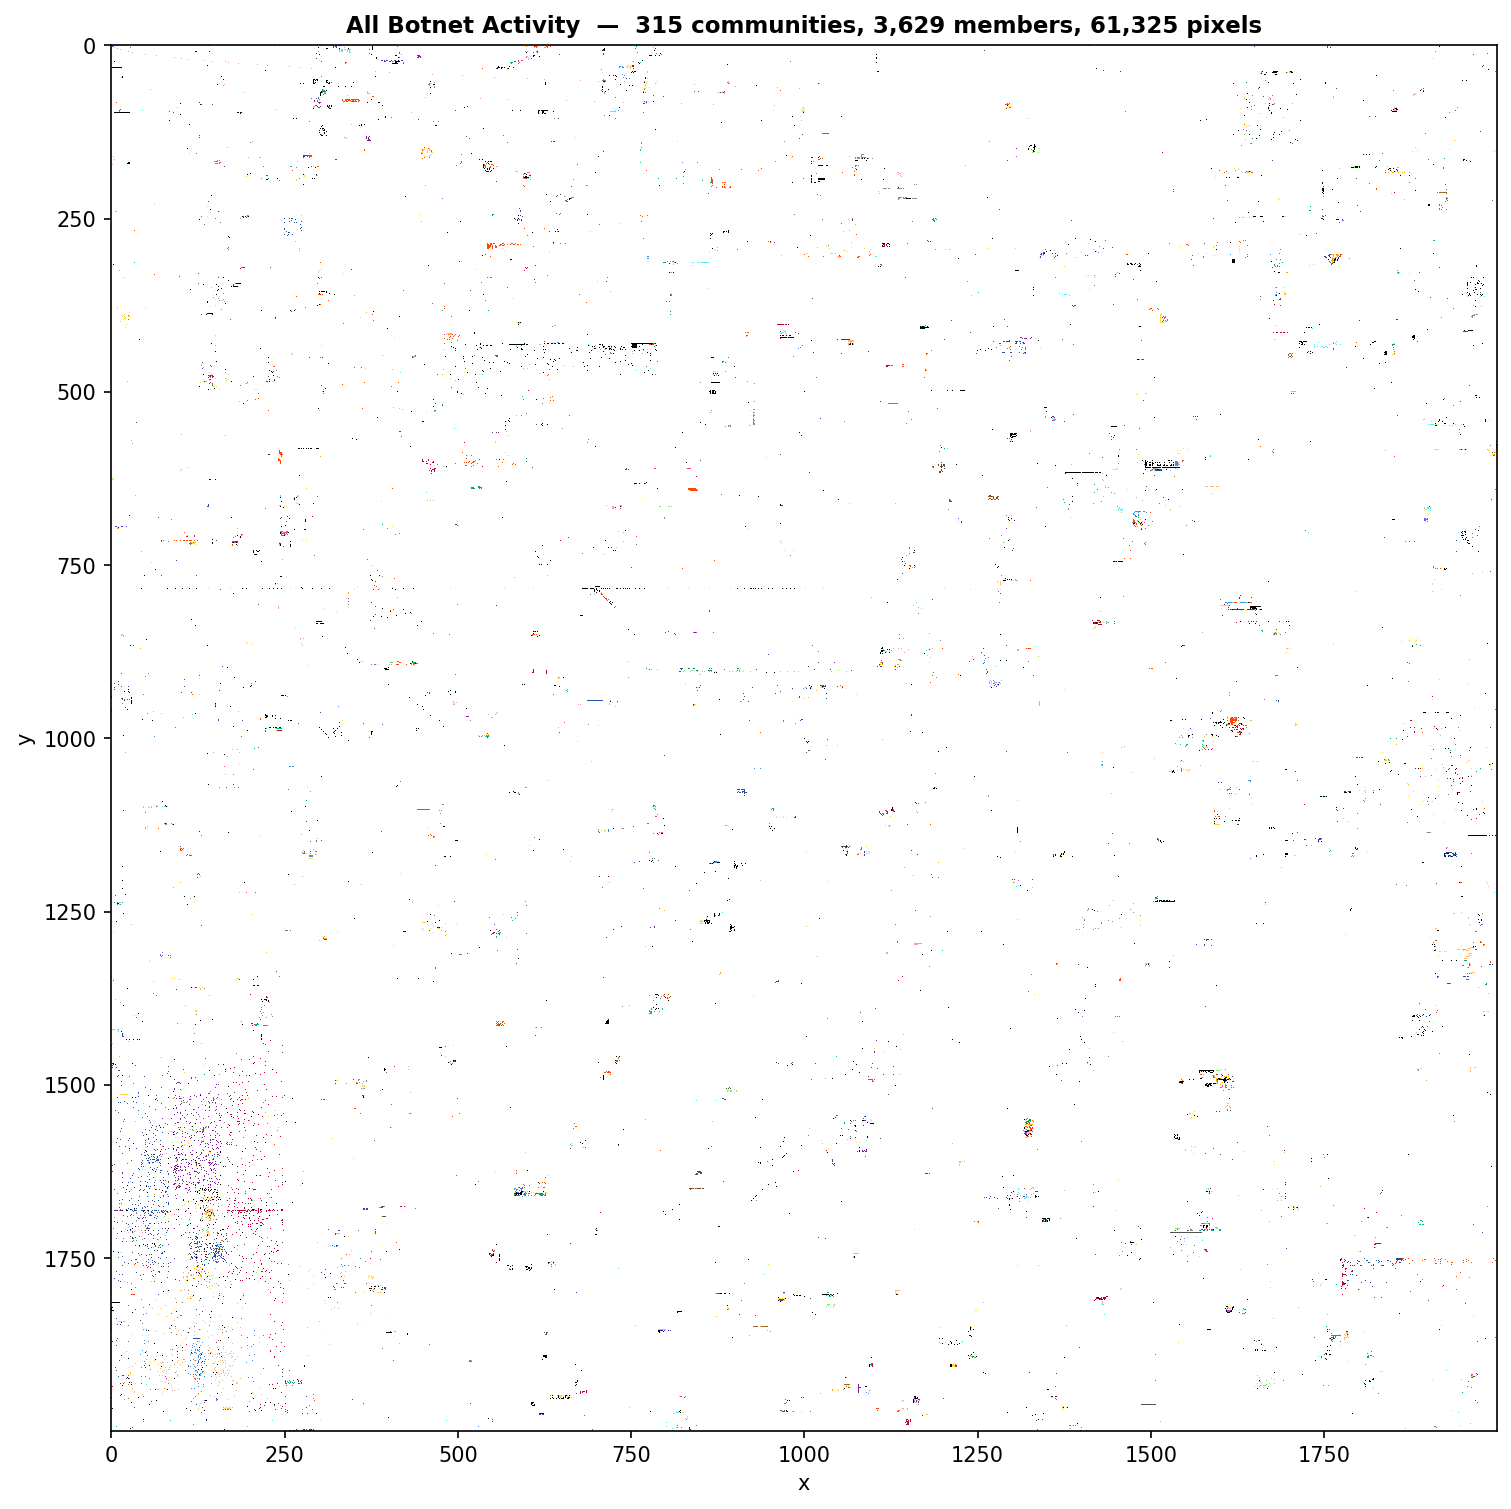
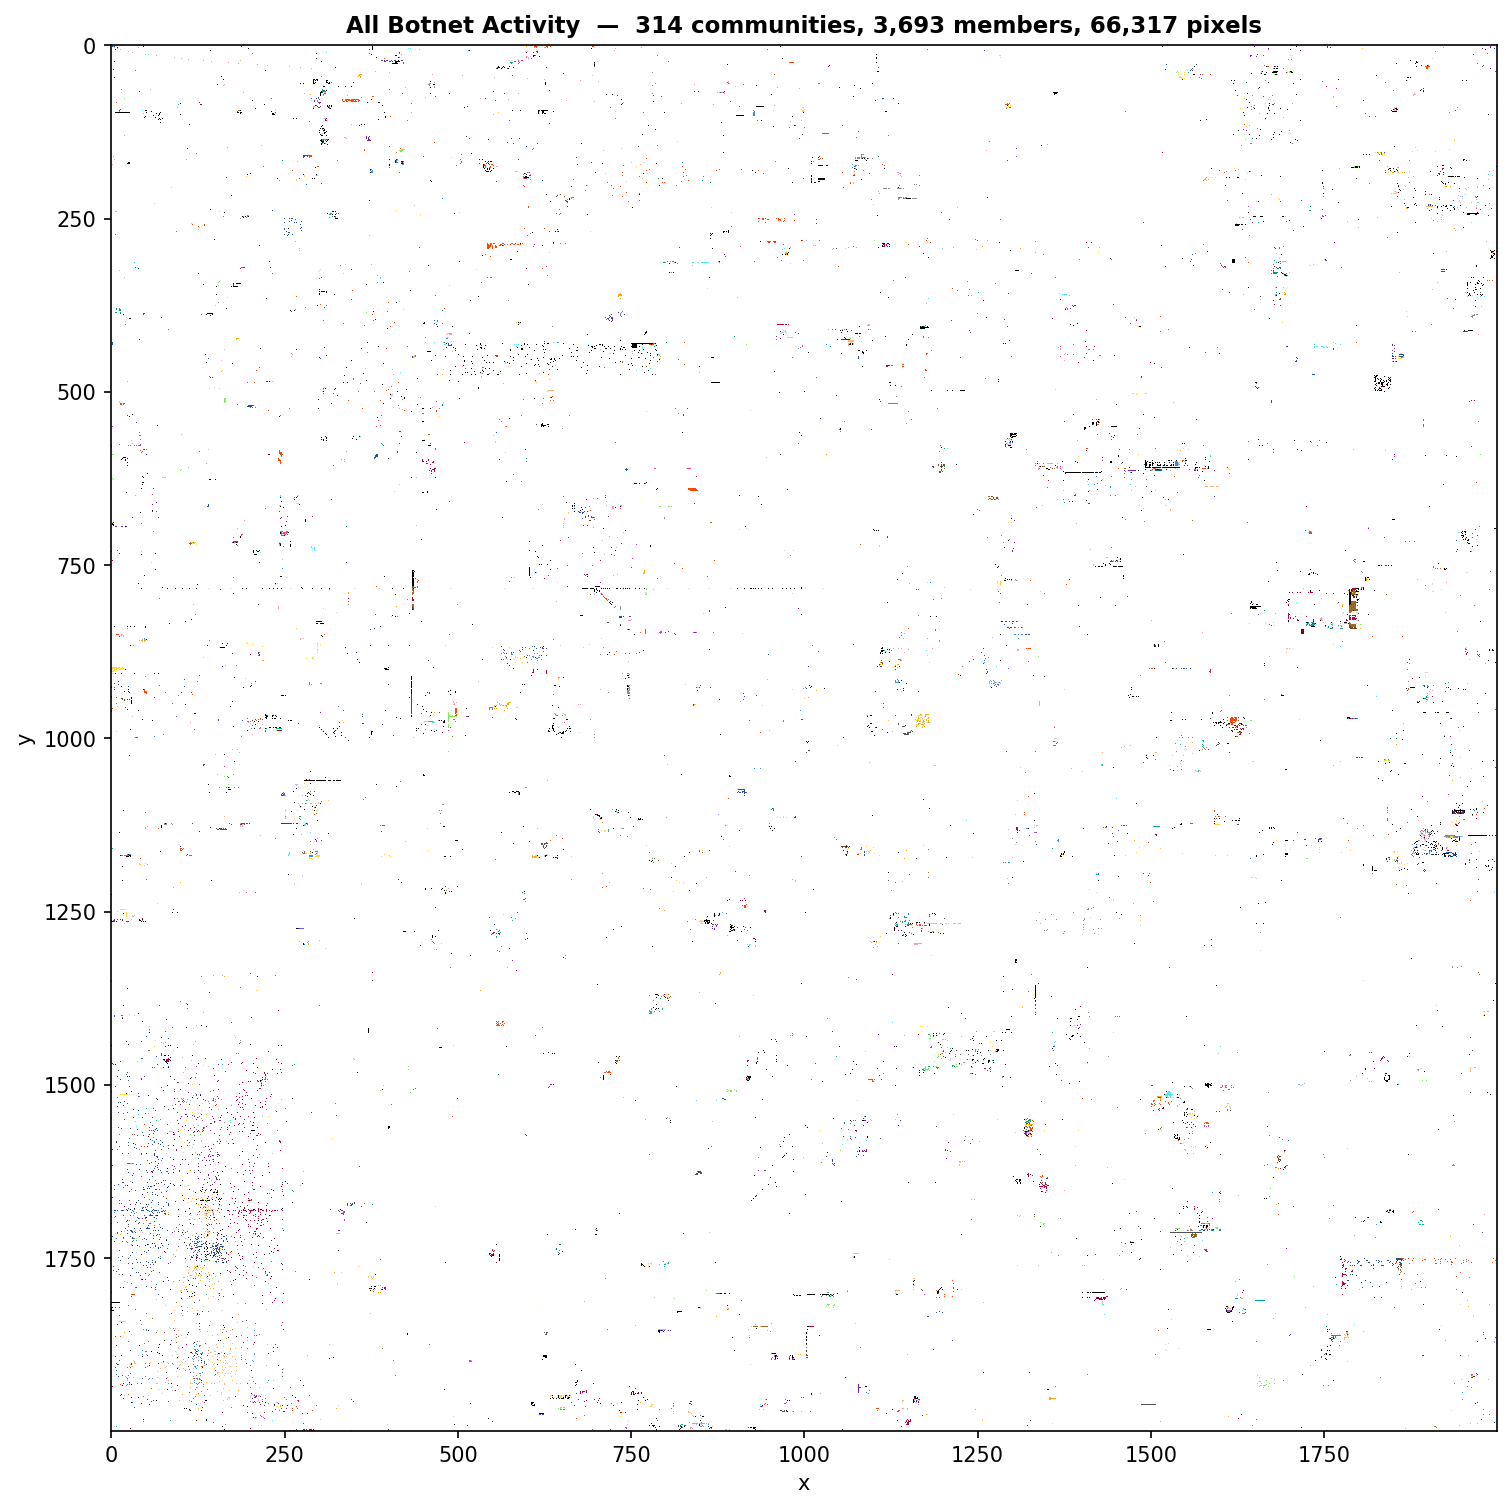
final report draft

Changed region(s): [[0.7465, 0.0, 0.7776, 0.0311], [0.591, 0.0, 0.6221, 0.0311], [0.1244, 0.7787, 0.1555, 0.8098]]

diff --git a/botnet_analysis.py b/botnet_analysis.py
@@ -37,7 +37,7 @@ HIGH_VOLUME_PERCENTILE = 0.97        # Top 3% by placement count
 # CONFIGURATION - PHASE 3: Graph Construction
 # ============================================================
 TILE_SIZE = 50                       # Pixels per tile side (50x50)
-WINDOW_SECONDS = 300                 # 10-minute temporal bins
+WINDOW_SECONDS = 300                 # 5-minute temporal bins
 MIN_CO_OCCURRENCE = 3                # Minimum shared bins for an edge
 
 # ============================================================
@@ -61,15 +61,15 @@ BOTNET_UNIFORMITY_STD_THRESHOLD = 10.0   # Low std of member std_intervals
 # CONFIGURATION - PHASE 6: Final Classification
 # ============================================================
 SCORE_WEIGHTS = {
-    "flag_cooldown": 2.0,
-    "flag_low_interval_std": 1.0,
+    "flag_cooldown": 3.0,
+    "flag_low_interval_std": 3.0,
     "flag_24h_active": 2.0,
     "flag_small_area": 1.0,
     "flag_single_color": 0.5,
     "flag_printer": 2.0,
     "flag_high_volume": 0.5,
 }
-SCORE_BOTNET_COMMUNITY = 3.0
+SCORE_BOTNET_COMMUNITY = 2.0
 SCORE_LARGE_BOTNET_COMMUNITY = 4.0
 LARGE_COMMUNITY_SIZE = 20
 HIGH_CONFIDENCE_SCORE = 5.0

diff --git a/botnet_analysis.md b/botnet_analysis.md
@@ -2,21 +2,21 @@
 
 ## Overview
 
-In this analysis, I identify the percentage of users who are likely to be bots, as well as the number of coordinated botnets, with a much higher degree of confidence than last weeks' analysis. In order to identify users as bots with a high degree of confidence, users are first flagged for suspicious behaviour, then put into spatial and temporal bins. Community analysis can then be performed counting the number of co-occurances of users within the same tiles and timeframes, which is indicative that they are being used together to place pixels to create or destroy artwork.
+In this analysis, I identify the percentage of users who are likely to be bots, as well as the number of coordinated botnets, with a much higher degree of confidence than last weeks' analysis. In order to identify users as bots with a high degree of confidence, users are first flagged for suspicious behaviour, then put into spatial and temporal bins. Community analysis can then be performed counting the number of co-occurances of users within the same tiles and timeframes, which is indicative that they are being used together to place pixels to create or destroy artwork. There are 6 distinct phases of this analysis, detailed below.
 
-Results:
+## Results:
 > GLOBAL STATISTICS:
     Total unique accounts in dataset:  10,381,163
     Accounts analyzed (>= 10 placements): 3,807,345
     Accounts flagged by behavior:      216,625 (2.09% of all users)
-    Leiden communities (>= 3 members): 1,377
-    Communities flagged as botnets:    315
+    Leiden communities (>= 3 members): 1,388
+    Communities flagged as botnets:    **314**
 
   BOT CLASSIFICATION (as % of 10,381,163 total users):
-    High confidence (score >= 5.0): 3,755 (0.04%)
-    Probable bot    (score >= 3.0): 8,917 (0.09%)
-    Unlikely bot    (flagged, score < 3.0): 203,953
-    TOTAL LIKELY BOTS (high + probable): 12,672 (0.12%)
+    High confidence (score >= 5.0): **11,901** (0.11%)
+    Probable bot    (score >= 3.0): **85,676** (0.83%)
+    Unlikely bot    (flagged, score < 3.0): 119,048
+    TOTAL LIKELY BOTS (high + probable): **97,577** (0.94%)
 
   BEHAVIORAL FLAG BREAKDOWN:
     flag_cooldown                    93,891 users (0.90%)
@@ -27,7 +27,7 @@ Results:
     flag_printer                      8,689 users (0.08%)
     flag_high_volume                113,101 users (1.09%)
 
-From an image of all the pixels from all botnets, it is clear that botnets were used throughout the entire canvas, specifically on the french and american flags at the bottom of the canvas, with large botnet footprints also on the trans flag and an artwork at (1500,600). I created PNGs depicting the five largest botnets as well as the total botnet footprint, which are included in the repo.
+From an image of all the pixels from all botnets, it is clear that botnets were used throughout the entire canvas, specifically on the french and american flags at the bottom of the canvas, with large botnet footprints also on the trans flag and an artwork at (1500,600). About 1% of all r/place 2022 users were bots, a much more accurate figure than the 16.7% result that I found last week. I created PNGs depicting the five largest botnets as well as the total botnet footprint, which are included in the repo.
 
 
 ## Phase 1: User Feature Extraction
@@ -74,10 +74,10 @@ Phase 2 applies configurable thresholds to the feature table and assigns boolean
 | `flag_24h_active` | `max_continuous_hours > 24` | No human sustains hourly activity for 24+ hours without sleep |
 | `flag_small_area` | `bounding_box_area ≤ 9` | Operating in a 3×3 pixel region — single-target bot |
 | `flag_single_color` | `unique_colors == 1` | Only ever places one color — automated single-purpose account |
-| `flag_printer` | `pct_adjacent > 0.7` and `pct_single_axis > 0.6` | Raster-scan movement pattern |
-| `flag_high_volume` | `total_placements > P97` | Top 3% by volume — unusual activity level |
+| `flag_printer` | `pct_adjacent > 0.7` and `pct_single_axis > 0.6` | printer movement pattern |
+| `flag_high_volume` | `total_placements > P97` | Top 3% by volume — high activity level |
 
-All users entering Phase 2 already have ≥ 10 placements (filtered in Phase 1), so no per-flag minimum placement thresholds are needed. A `flag_count` column sums the flags, and any user with `flag_count > 0` is considered "flagged" and proceeds to graph construction.
+All users entering Phase 2 already have ≥ 10 placements (filtered in Phase 1). A `flag_count` column sums the flags, and any user with `flag_count > 0` is considered "flagged" and proceeds to graph construction.
 
 ---
 
@@ -90,3 +90,88 @@ This is the most computationally demanding phase and underwent the most signific
 The canvas is divided into spatial-temporal bins: 50×50 pixel tiles × 5-minute time windows. If two flagged users both placed pixels in the same tile during the same time window, they co-occurred in that bin. The number of bins two users share becomes the edge weight in a co-occurrence graph. Edges below `MIN_CO_OCCURRENCE` (3) are discarded — if two users only overlapped in 1–2 bins, the co-occurrence is likely coincidental.
 
 ### Implementation
+
+1. **Filter to flagged users**: The Parquet is re-scanned, filtered via a semi-join to only flagged user IDs, and `tile_id` and `window_id` columns are created.
+
+2. **Deduplicate user-bin assignments**: A user appearing multiple times in the same bin (possible due to cooldown edge cases) is counted only once via `.unique()`.
+
+3. **Filter to valid bins**: Bins with fewer than 2 users are removed — no pairs can be generated from them.
+
+4. **Map user IDs to contiguous indices**: The sparse matrix requires 0-based contiguous indices. A mapping DataFrame is joined onto the user-bin table, and a reverse lookup array (`idx_to_uid`) is stored for converting back to original user IDs later. 
+
+5. **Group bins into per-bin user lists**: A `group_by(["tile_id", "window_id"]).agg(pl.col("_idx"))` produces a list-of-lists structure where each inner list contains the contiguous indices of users present in that bin.
+
+6. **Iterate bin-by-bin, generating pairs with numpy**: For each bin, `np.triu_indices(n, k=1)` generates all upper-triangle index pairs (ensuring each pair is counted once with consistent ordering). These pairs are appended to batch buffers.
+
+7. **Flush batches into a scipy CSR sparse matrix**: Every 50 million pairs, the batch is converted to a COO (Coordinate) sparse matrix, then to CSR (Compressed Sparse Row), and added to a running accumulator. COO-to-CSR conversion automatically sums duplicate entries — if users 2 and 7 appear together in 5 bins across the batch, the 5 separate (1, (2, 7)) entries become a single entry with value 5.
+
+8. **Extract thresholded edges**: After all bins are processed, the accumulated CSR matrix is converted to COO, and entries with weight ≥ `MIN_CO_OCCURRENCE` are extracted as numpy arrays.
+
+### Memory Optimization Design History
+
+This phase underwent three major rewrites to minimize memory usage:
+
+**Version 1 — Python Counter with itertools.combinations**: The original implementation grouped users per bin, generated all pairs using `itertools.combinations`, and counted co-occurrences in a `collections.Counter` dictionary. This crashed with a `MemoryError` because each Python tuple key `(u1, u2)` consumes ~150 bytes of object overhead. With hundreds of millions of unique pairs, the dictionary alone was huge.
+
+**Version 2 — Polars self-join**: The Counter was replaced with a Polars self-join: `user_bin_df.join(user_bin_df, on=["tile_id", "window_id"]).filter(col("user_id_int") < col("user_id_int_r")).group_by(...).agg(...)`. This leverages Polars' Rust-based columnar engine, which is far more memory-efficient than Python dicts. However, the self-join still materializes all pairs before filtering — with ~31M user-bin rows and an average of 34 users per bin, the intermediate result was near 2 billion rows, again crashing.
+
+**Version 3 (current) — Per-bin numpy iteration with scipy sparse accumulation**: The self-join was replaced with a Python loop that processes each bin individually. For each bin, `np.triu_indices` generates pairs entirely in numpy (C-level memory, ~24 bytes per pair vs. ~150 bytes for Python tuples). Pairs are accumulated into batch buffers and periodically flushed into a scipy sparse CSR matrix, which stores only non-zero entries (~12 bytes per unique pair). This approach keeps peak memory significantly lower, and a safety threshold subsamples any bin with more than ~37,000 users (where even one bin's pairs would exceed 16 GB), to ensure this would be the final draft of this phase.
+
+---
+
+## Phase 4: Leiden Community Detection
+
+Phase 4 takes the graph data (about 216k vertices and 181 million edges) from Phase 3 and runs the Leiden algorithm to discover communities of co-occurring users.
+
+### Algorithm Choice: CPM (Constant Potts Model)
+
+The Leiden algorithm with CPM was chosen over modularity-based approaches for a specific reason: CPM does not suffer from the resolution limit. Modularity-based methods cannot detect communities smaller than a scale determined by the total graph size — they tend to merge small genuine communities into larger ones. Since botnets range from 3-member small-scale operations to 100+ member campaigns, CPM's ability to detect communities of varying sizes without bias was critical.
+
+The CPM quality function is: `Q = Σ(internal_edges - resolution × C(n, 2))` for each community of size n. The resolution parameter (set to 0.02 for the final analysis) controls the minimum internal edge density a community must have to be considered valid. Lower values allow sparser communities; higher values require tighter coordination. I tested the analysis with several r values and found 0.02 to be a good resoultion that built sufficiently large communities.
+
+### Memory Optimization
+
+Phase 3 returns the edge data as three compact numpy arrays (`edge_src`, `edge_tgt`, `edge_wt`) along with the index-to-user-ID mapping. The original design returned a Python dictionary mapping `(u1, u2) → weight`, where each entry carries significant object overhead from the tuple key and the dict's hash table. Switching to numpy arrays reduced the memory footprint to roughly a tenth of the dictionary-based approach, since numpy stores values as contiguous raw integers with no per-element Python object overhead.
+
+Even with numpy arrays, passing hundreds of millions of edges to igraph's `Graph()` constructor would require creating an equal number of Python tuple objects, because igraph's Python binding iterates edges as Python sequences. To avoid this, Phase 4 writes the edge list to a temporary file using Polars' fast `write_csv`, then loads it via `igraph.Graph.Read_Edgelist()`, which reads the file directly in C with zero Python object overhead. The temporary file is deleted after loading.
+
+---
+
+## Phase 5: Community Scoring
+
+Phase 5 evaluates each community (with ≥ 3 members) and determines whether it exhibits botnet characteristics.
+
+### Per-Community Metrics
+
+For each community, the per-user features from Phase 1 are aggregated:
+- **flag_density**: average number of behavioral flags per member. A community of users who each trigger 2–3 flags is far more suspicious than one where members have 0–1 flags.
+- **avg_pct_cooldown_5m**: how precisely the community's members time their placements to the cooldown.
+- **avg_std_interval / std_of_std_interval**: the average timing regularity and, critically, how *uniform* that regularity is across members. If all members have nearly identical `std_interval`, they are likely running the same automation script.
+- **temporal_coherence_std**: standard deviation of members' mean placement times. A low value means the community's members were active during the same time period — they aren't just spatially co-located, they're temporally synchronized.
+- **spatial_coherence**: computed via an O(N) tile-frequency method. For each tile the community touched, the fraction of members present is calculated. Tiles where ≥ 25% of the community was active are "active tiles." Spatial coherence = active_tiles / total_tiles. A high value means the community is focused on specific canvas regions rather than scattered randomly.
+
+### Botnet Classification Criteria
+
+A community is flagged as a botnet if it meets any of three criteria:
+1. **High flag density** (> 1.5 average flags per member)
+2. **Cooldown-synchronized group**: ≥ 5 members, average cooldown precision > 0.4, and temporal coherence std < 2 hours
+3. **Behaviorally uniform large group**: ≥ 10 members with std_of_std_interval < 10 seconds (all members behave identically)
+
+---
+
+## Phase 6: Final Classification and Reporting
+
+Phase 6 computes a composite bot score for every user:
+
+**Behavioral score** = weighted sum of individual flags. Weights reflect confidence in each signal — `flag_cooldown` (3.0) and `flag_low_interval_std` (3.0) are weighted the highest because they are the best indicators of bot activity, inhumane timing precision over many placements. `flag_24h_active` (2.0) and `flag_printer` (2.0) are also weighted heavier because they are signs of automation. `flag_small_area` (1.0),`flag_single_color` (0.5), and `flag_high_volume` (0.5) are weighted lowest because they have higher false-positive rates.
+
+**Community score** = 3.0 if the user belongs to a botnet community, or 4.0 if that community has ≥ 20 members (large botnets are higher confidence).
+
+**Total bot score** = behavioral + community. Users are classified as:
+- **HIGH_CONFIDENCE** (score ≥ 5.0): strong individual signals AND/OR botnet community membership
+- **PROBABLE** (score ≥ 3.0): moderate signals, likely automated
+- **LESS LIKELY** (score < 3.0): flagged but insufficient evidence, could still be bots but will contain more false positives
+
+All percentages are reported against the total unique users in the dataset (~10M), not just the filtered subset, to get the overall bot percentage of all r/place activity.
+
+---
